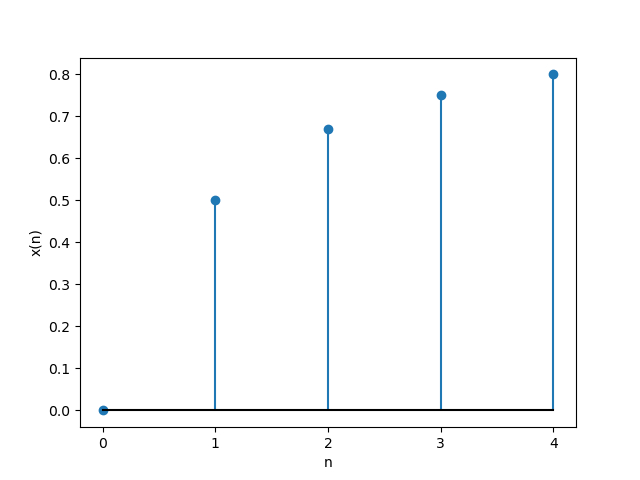
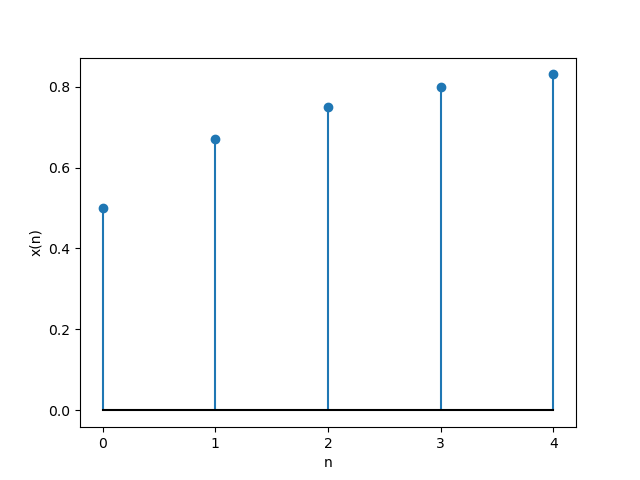
modified

diff --git a/Signals and systems/Discrete/11/9/1/2/11.9.1.2.tex b/Signals and systems/Discrete/11/9/1/2/11.9.1.2.tex
@@ -58,22 +58,22 @@
 \textbf{Question : 11.9.1.2:}\\
 Write the first five terms of the sequence whose $n^{th}$ terms  $x\brak{n} = \frac{n}{n+1}$\\
 \solution\\
-\begin{table}[ht]
+\begin{table}[ht!]
 \centering
 \input{tables/table1.tex}
 \caption{Input Parameters}
-\end{table}
+\end{table}\\
 Here, Z-transform
 \begin{align}
 X(z) &= \sum_{i=-\infty}^\infty\ x\brak{n}.z^{-n}\\
-&= \sum_{i=-\infty}^\infty \frac{n}{n+1}.u(n). z^{-n}\\
-&= \sum_{i=-\infty}^\infty u\brak{n}.z^{-n} - \frac{1}{n+1} u\brak{n}.z^{-n}
+&= \sum_{i=-\infty}^\infty \frac{n+1}{n+2}.u(n). z^{-n}\\
+&= \sum_{i=-\infty}^\infty u\brak{n}.z^{-n} - \frac{1}{n+2} u\brak{n}.z^{-n}
 \end{align}
 Now, 
 \begin{align}
 u\brak{n} &\xleftrightarrow Z  \frac{1}{1-z^{-1}}, \quad{|z|>1}\\
-\frac{-1}{n+1}.u\brak{n} &\xleftrightarrow Z  z\log(1-z^{-1}), \quad{|z|>1}\\
-X(z) &= \frac{1}{1-z^{-1}} + z\log{(1-z^{-1})} ,\quad{|z|>1}
+\frac{-1}{n+2}.u\brak{n} &\xleftrightarrow Z  z+z^2\log(1-z^{-1}), \quad{|z|>1}\\
+X(z) &= \frac{1}{1-z^{-1}} + z+ z^2\log{(1-z^{-1})} ,\quad{|z|>1}
 \end{align}
 \begin{figure}[ht!]
     \centering

diff --git a/Signals and systems/Discrete/11/9/1/2/codes/graph.c b/Signals and systems/Discrete/11/9/1/2/codes/graph.c
@@ -5,12 +5,8 @@ int main() {
     double x[5];  // To store the first five terms of the sequence
 
     // Calculate the values for n >= 0
-    for (n = 0; n < 5; n++) {
-        if (n == 0) {
-            x[n] = 0.0; // Set the value to 0 at n = 0
-        } else {
-            x[n] = (double)n / (n + 1);
-        }
+    for (n = 0; n < 5; n++) {       
+            x[n] = (double)(n+1) / (n + 2);     
     }
 
     // Open a file for writing

diff --git a/Signals and systems/Discrete/11/9/1/2/tables/table1.tex b/Signals and systems/Discrete/11/9/1/2/tables/table1.tex
@@ -3,7 +3,7 @@
     \hline
     \textbf{Term} & \textbf{Value} & \textbf{Description}\\
     \hline
-    $x(n)$ & $\frac{n}{n+1}$$u(n)$ & General term\\
+    $x(n)$ & $\frac{n+1}{n+2}$$u(n)$ & General term\\
     \hline
   \end{tabular}
   
